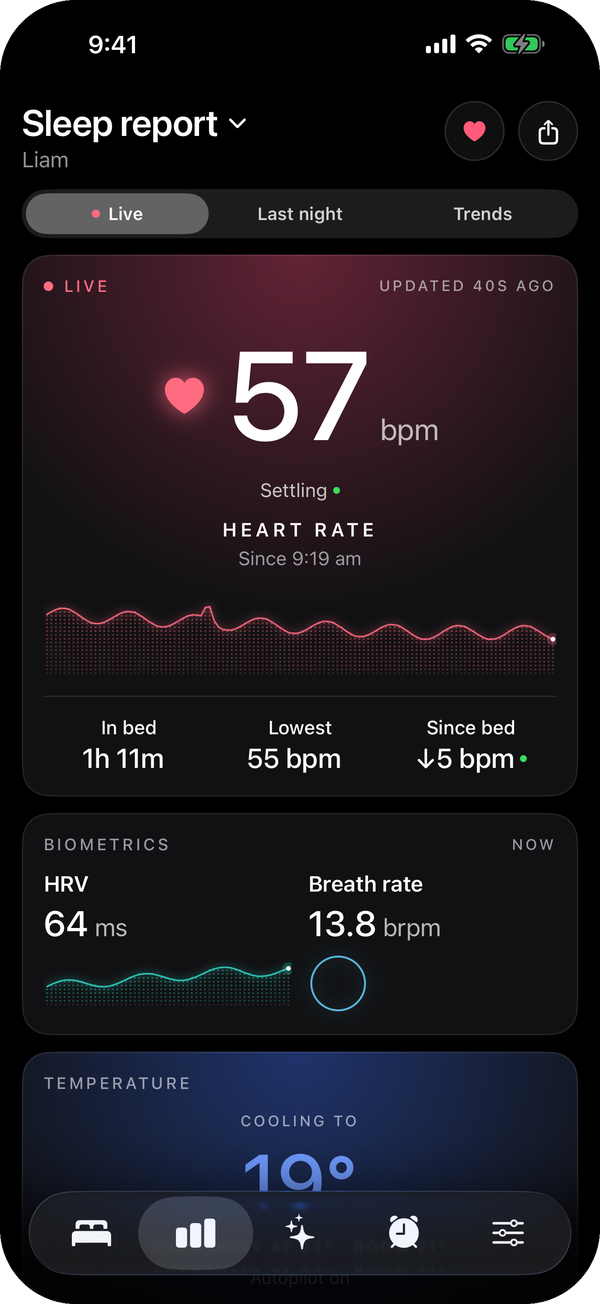
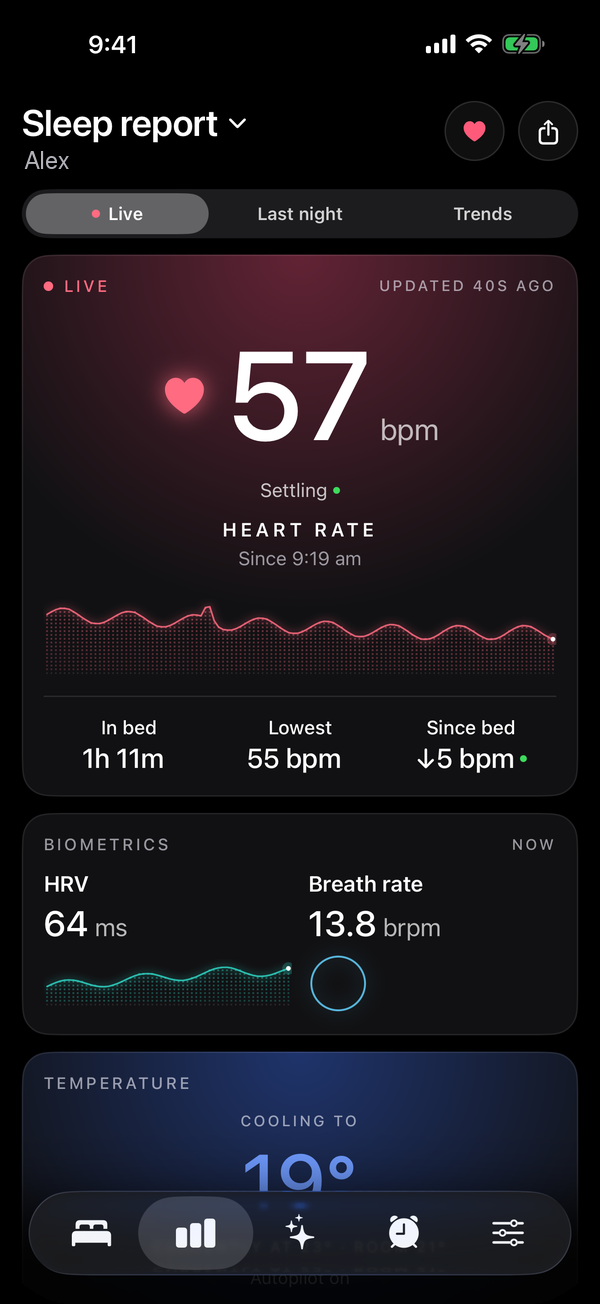
Release sweep: licence texts, Lucide credit, scrub a real name from iOS screenshots
- THIRD_PARTY_NOTICES: full licence text for free-sleep (MIT inside its disclaimer),
  HeartPy, eight_sleep and Lucide/Feather; LICENSE files beside the vendored code
- README credits: Lucide (ISC) + Feather (MIT), hass-free-sleep licence
- iOS screenshots: the left sleeper's name now reads Alex, like the rest of the docs

diff --git a/THIRD_PARTY_NOTICES.md b/THIRD_PARTY_NOTICES.md
@@ -11,11 +11,40 @@ Eight+ is MIT licensed (see [LICENSE](LICENSE)). It includes or adapts the follo
 - `eight_plus/app/pipeline/presence.py` ports free-sleep's presence detection (piezo baseline drift +
   capacitance z-score).
 
+free-sleep is released under the MIT License inside its own "Open Source Disclaimer and License Agreement"
+(no affiliation with Eight Sleep, use at your own risk, no liability). The full upstream text is kept beside the
+vendored code in [`gateway/biometrics-tap/biometrics/LICENSE-free-sleep.md`](gateway/biometrics-tap/biometrics/LICENSE-free-sleep.md).
+
 ## HeartPy — MIT
 
 <https://github.com/paulvangentcom/heartrate_analysis_python> · © Paul van Gent
 
-Adapted inside free-sleep as `biometrics/heart/`, and carried here with it.
+Adapted inside free-sleep as `biometrics/heart/`, and carried here with it. Licence:
+[`gateway/biometrics-tap/biometrics/heart/LICENSE-HeartPy`](gateway/biometrics-tap/biometrics/heart/LICENSE-HeartPy).
+
+```
+MIT License
+
+Copyright (c) 2021 Paul van Gent
+
+Permission is hereby granted, free of charge, to any person obtaining a copy
+of this software and associated documentation files (the "Software"), to deal
+in the Software without restriction, including without limitation the rights
+to use, copy, modify, merge, publish, distribute, sublicense, and/or sell
+copies of the Software, and to permit persons to whom the Software is
+furnished to do so, subject to the following conditions:
+
+The above copyright notice and this permission notice shall be included in all
+copies or substantial portions of the Software.
+
+THE SOFTWARE IS PROVIDED "AS IS", WITHOUT WARRANTY OF ANY KIND, EXPRESS OR
+IMPLIED, INCLUDING BUT NOT LIMITED TO THE WARRANTIES OF MERCHANTABILITY,
+FITNESS FOR A PARTICULAR PURPOSE AND NONINFRINGEMENT. IN NO EVENT SHALL THE
+AUTHORS OR COPYRIGHT HOLDERS BE LIABLE FOR ANY CLAIM, DAMAGES OR OTHER
+LIABILITY, WHETHER IN AN ACTION OF CONTRACT, TORT OR OTHERWISE, ARISING FROM,
+OUT OF OR IN CONNECTION WITH THE SOFTWARE OR THE USE OR OTHER DEALINGS IN THE
+SOFTWARE.
+```
 
 ## eight_sleep (lukas-clarke) — MIT
 
@@ -25,11 +54,84 @@ The card's raw heating-level → °C table (`RAW_TO_CELSIUS_MAP`) is taken from 
 `pyEight/constants.py`. Eight+ talks to the integration only through Home Assistant entities and its
 `eight_sleep.*` services.
 
+```
+MIT License
+
+Copyright (c) 2023 Lukas
+
+Permission is hereby granted, free of charge, to any person obtaining a copy
+of this software and associated documentation files (the "Software"), to deal
+in the Software without restriction, including without limitation the rights
+to use, copy, modify, merge, publish, distribute, sublicense, and/or sell
+copies of the Software, and to permit persons to whom the Software is
+furnished to do so, subject to the following conditions:
+
+The above copyright notice and this permission notice shall be included in all
+copies or substantial portions of the Software.
+
+THE SOFTWARE IS PROVIDED "AS IS", WITHOUT WARRANTY OF ANY KIND, EXPRESS OR
+IMPLIED, INCLUDING BUT NOT LIMITED TO THE WARRANTIES OF MERCHANTABILITY,
+FITNESS FOR A PARTICULAR PURPOSE AND NONINFRINGEMENT. IN NO EVENT SHALL THE
+AUTHORS OR COPYRIGHT HOLDERS BE LIABLE FOR ANY CLAIM, DAMAGES OR OTHER
+LIABILITY, WHETHER IN AN ACTION OF CONTRACT, TORT OR OTHERWISE, ARISING FROM,
+OUT OF OR IN CONNECTION WITH THE SOFTWARE OR THE USE OR OTHER DEALINGS IN THE
+SOFTWARE.
+```
+
+## Lucide — ISC (some icons Feather — MIT)
+
+<https://github.com/lucide-icons/lucide>
+
+The card inlines a handful of Lucide icon paths (marked `Lucide` in `eight-sleep-card.js`). Some Lucide icons
+derive from [Feather](https://github.com/feathericons/feather).
+
+```
+ISC License
+
+Copyright (c) 2026 Lucide Icons and Contributors
+
+Permission to use, copy, modify, and/or distribute this software for any
+purpose with or without fee is hereby granted, provided that the above
+copyright notice and this permission notice appear in all copies.
+
+THE SOFTWARE IS PROVIDED "AS IS" AND THE AUTHOR DISCLAIMS ALL WARRANTIES
+WITH REGARD TO THIS SOFTWARE INCLUDING ALL IMPLIED WARRANTIES OF
+MERCHANTABILITY AND FITNESS. IN NO EVENT SHALL THE AUTHOR BE LIABLE FOR
+ANY SPECIAL, DIRECT, INDIRECT, OR CONSEQUENTIAL DAMAGES OR ANY DAMAGES
+WHATSOEVER RESULTING FROM LOSS OF USE, DATA OR PROFITS, WHETHER IN AN
+ACTION OF CONTRACT, NEGLIGENCE OR OTHER TORTIOUS ACTION, ARISING OUT OF
+OR IN CONNECTION WITH THE USE OR PERFORMANCE OF THIS SOFTWARE.
+```
+
+```
+The MIT License (MIT) (for the icons listed above)
+
+Copyright (c) 2013-present Cole Bemis
+
+Permission is hereby granted, free of charge, to any person obtaining a copy
+of this software and associated documentation files (the "Software"), to deal
+in the Software without restriction, including without limitation the rights
+to use, copy, modify, merge, publish, distribute, sublicense, and/or sell
+copies of the Software, and to permit persons to whom the Software is
+furnished to do so, subject to the following conditions:
+
+The above copyright notice and this permission notice shall be included in all
+copies or substantial portions of the Software.
+
+THE SOFTWARE IS PROVIDED "AS IS", WITHOUT WARRANTY OF ANY KIND, EXPRESS OR
+IMPLIED, INCLUDING BUT NOT LIMITED TO THE WARRANTIES OF MERCHANTABILITY,
+FITNESS FOR A PARTICULAR PURPOSE AND NONINFRINGEMENT. IN NO EVENT SHALL THE
+AUTHORS OR COPYRIGHT HOLDERS BE LIABLE FOR ANY CLAIM, DAMAGES OR OTHER
+LIABILITY, WHETHER IN AN ACTION OF CONTRACT, TORT OR OTHERWISE, ARISING FROM,
+OUT OF OR IN CONNECTION WITH THE SOFTWARE OR THE USE OR OTHER DEALINGS IN THE
+SOFTWARE.
+```
+
 ## hass-free-sleep (Mrtenz)
 
 <https://github.com/Mrtenz/hass-free-sleep>
 
-Not included — Eight+ reads the entities it creates. Listed because detection follows its unique-ID scheme.
+MIT. Not included — Eight+ reads the entities it creates. Listed because detection follows its unique-ID scheme.
 
 ---
 

diff --git a/gateway/biometrics-tap/biometrics/LICENSE-free-sleep.md b/gateway/biometrics-tap/biometrics/LICENSE-free-sleep.md
@@ -1,0 +1,71 @@
+# Open Source Disclaimer and License Agreement
+
+**Last Updated:** January 2, 2025
+
+---
+
+## 1. No Affiliation or Endorsement
+This App is not affiliated with, authorized, endorsed, or supported by 8 Sleep, Inc. ("8 Sleep"). Use of this App may void your Device's warranty or violate 8 Sleep's terms of service.
+
+---
+
+## 2. Open Source Nature
+This App is provided as open-source software under the MIT License. You are free to access, modify, and distribute the source code as permitted under the MIT License.
+
+---
+
+## 3. Use at Your Own Risk
+This App is provided "AS IS" and "WITH ALL FAULTS." By using this App, you accept all risks associated with its use, including but not limited to:
+
+- Malfunctions or disruptions to your Device.
+- Loss of data, settings, or functionality on your Device.
+- Violations of applicable laws or terms of service.
+
+The developers of this App disclaim all warranties, whether express or implied, including but not limited to warranties of merchantability, fitness for a particular purpose, and non-infringement.
+
+---
+
+## 4. Limited Scope of Operation
+This App is designed to function solely on a local network (LAN). The developers do not provide any remote management capabilities or support for cloud-based operation.
+
+---
+
+## 5. No Liability
+Under no circumstances shall the developers or contributors of this App be liable for any direct, indirect, incidental, special, consequential, or exemplary damages arising out of or in connection with the use of this App. This includes, but is not limited to, damages for loss of profits, data, or goodwill, or other intangible losses.
+
+---
+
+## 6. Compliance with Laws
+You are solely responsible for ensuring that your use of this App complies with all applicable laws, regulations, and third-party agreements.
+
+---
+
+## 7. No Remote Control
+This App operates solely within a local network and cannot be remotely disabled or controlled by the developers. You are fully responsible for its setup, management, and operation within your LAN environment.
+
+---
+
+## 8. Acknowledgment
+By using this App, you acknowledge that:
+
+- You understand the risks involved with using a jailbroken application.
+- You assume full responsibility for any consequences resulting from its use.
+- You release the developers and contributors of this App from any liability arising from your use of the App.
+
+---
+
+## License
+
+This App is licensed under the MIT License. You are free to use, modify, and distribute the software as allowed under the terms of this license.
+
+---
+
+## MIT License
+
+Copyright (c) 2025 Your Name or Project Name
+
+Permission is hereby granted, free of charge, to any person obtaining a copy of this software and associated documentation files (the "Software"), to deal in the Software without restriction, including without limitation the rights to use, copy, modify, merge, publish, distribute, sublicense, and/or sell copies of the Software, and to permit persons to whom the Software is furnished to do so, subject to the following conditions:
+
+The above copyright notice and this permission notice shall be included in all copies or substantial portions of the Software.
+
+THE SOFTWARE IS PROVIDED "AS IS", WITHOUT WARRANTY OF ANY KIND, EXPRESS OR IMPLIED, INCLUDING BUT NOT LIMITED TO THE WARRANTIES OF MERCHANTABILITY, FITNESS FOR A PARTICULAR PURPOSE AND NONINFRINGEMENT. IN NO EVENT SHALL THE AUTHORS OR COPYRIGHT HOLDERS BE LIABLE FOR ANY CLAIM, DAMAGES, OR OTHER LIABILITY, WHETHER IN AN ACTION OF CONTRACT, TORT OR OTHERWISE, ARISING FROM, OUT OF OR IN CONNECTION WITH THE SOFTWARE OR THE USE OR OTHER DEALINGS IN THE SOFTWARE.

diff --git a/README.md b/README.md
@@ -388,6 +388,7 @@ to write if any survive.
   free-sleep's biometrics.
 - **[eight_sleep](https://github.com/lukas-clarke/eight_sleep)** (lukas-clarke, MIT) for the cloud backend, and
   the raw heating-level → °C table.
-- **[hass-free-sleep](https://github.com/Mrtenz/hass-free-sleep)** (Mrtenz) for the free-sleep backend.
+- **[hass-free-sleep](https://github.com/Mrtenz/hass-free-sleep)** (Mrtenz, MIT) for the free-sleep backend.
+- **[Lucide](https://github.com/lucide-icons/lucide)** (ISC, with some icons from [Feather](https://github.com/feathericons/feather), MIT) for the card's icons.
 
 MIT licensed — see [LICENSE](LICENSE) and [THIRD_PARTY_NOTICES.md](THIRD_PARTY_NOTICES.md).
